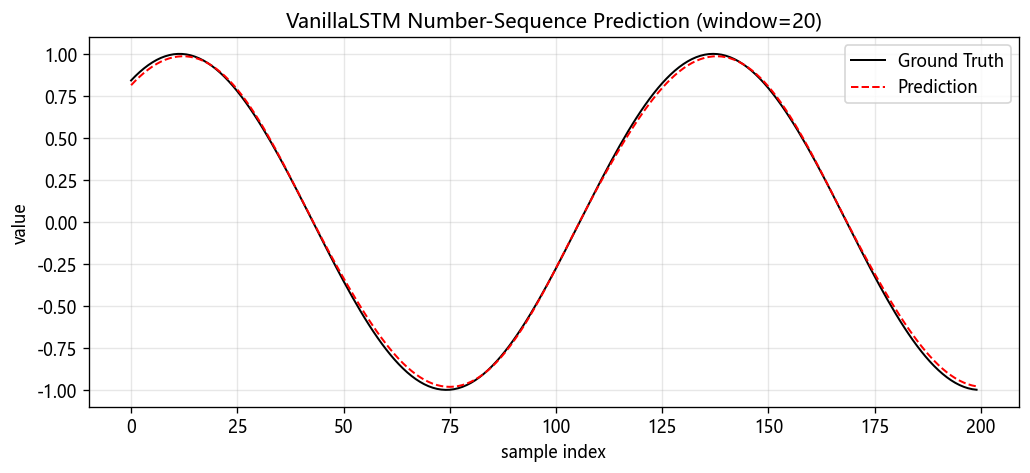
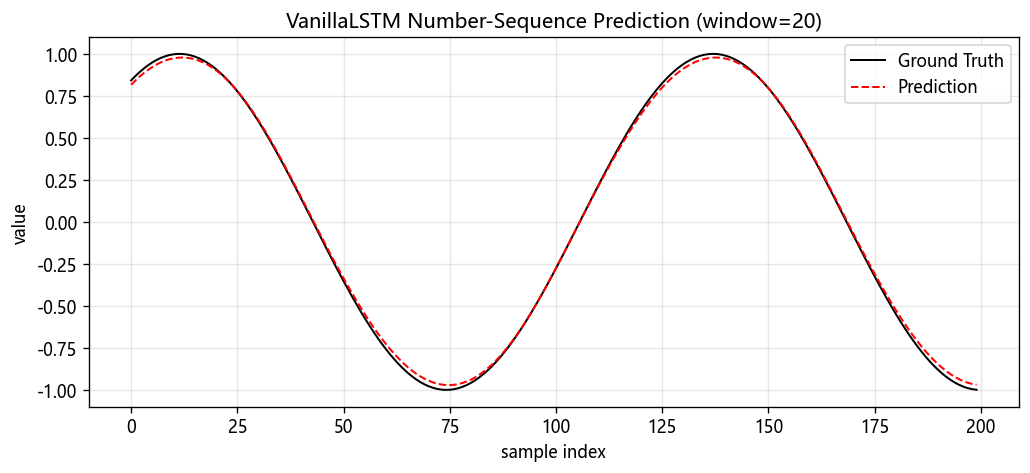
update: refine LSTM code and prediction plots

diff --git a/RNN-Learning/LSTM/lstm.py b/RNN-Learning/LSTM/lstm.py
@@ -1,28 +1,4 @@
-"""
-长短期记忆网络 (LSTM) 数字序列预测 —— 代码复现
-================================================
-参考 RNN-Learning/RNN/rnn.py 的做法流程，复现 LSTM 并训练数字序列预测。
-
-文件名统一为 lstm.py，放置在 RNN-Learning/LSTM 下。
-
-本文件包含三部分：
-  1. VanillaLSTM (from scratch) —— 完全从零实现 LSTM 前向 + BPTT 反向传播
-  2. TorchLSTM                —— 使用 PyTorch 内置 nn.LSTM 的版本（对照）
-  3. 数据 / 训练 / 可视化       —— 同样以"正弦波序列预测"作为数字序列预测任务
-
-LSTM 单元公式（各门控使用 sigmoid，候选/状态使用 tanh）：
-  拼接 z = [h(t-1); x(t)]
-  f(t) = sigmoid(W_f · z + b_f)    遗忘门：决定丢弃多少旧记忆
-  i(t) = sigmoid(W_i · z + b_i)    输入门：决定写入多少新信息
-  g(t) = tanh(W_g  · z + b_g)     候选记忆
-  o(t) = sigmoid(W_o · z + b_o)    输出门：决定输出多少记忆
-  c(t) = f(t) ⊙ c(t-1) + i(t) ⊙ g(t)   细胞状态（长期记忆，沿时间直连）
-  h(t) = o(t) ⊙ tanh(c(t))             隐藏状态（短期输出）
-  输出：y(t) = W_hy · h(t) + b_y
-
-相比普通 RNN，LSTM 通过细胞状态 c(t) 的"直连通道"缓解梯度消失，
-因此能记住更久以前的信息（对应笔记问题5）。
-"""
+"""长短期记忆网络 (LSTM) 数字序列预测 —— 代码复现"""
 
 import numpy as np
 import torch
@@ -33,14 +9,12 @@ import matplotlib
 matplotlib.use("Agg")
 import matplotlib.pyplot as plt
 
-
 def get_device():
     if hasattr(torch, "xpu") and torch.xpu.is_available():
         return torch.device("xpu")
     if torch.cuda.is_available():
         return torch.device("cuda")
     return torch.device("cpu")
-
 
 # ============================================================================
 # 1. 从零实现 VanillaLSTM（含 BPTT 反向传播）
@@ -174,11 +148,13 @@ class VanillaLSTM:
                   self.W_g.T @ dg_raw + self.W_o.T @ do_raw)
             dh_next = dz[:H, :]               # 前 H 行对应 h(t-1)
             dc_next = f_list[t] * dc          # c 的直连通道：c(t-1) 项
-
+        
+        """
         # 梯度裁剪
         for g in (dW_f, dW_i, dW_g, dW_o, db_f, db_i, db_g, db_o, dW_hy, db_y):
             np.clip(g, -5.0, 5.0, out=g)
-
+        """
+        
         # 参数更新
         self.W_f -= self.lr * dW_f; self.b_f -= self.lr * db_f
         self.W_i -= self.lr * dW_i; self.b_i -= self.lr * db_i
